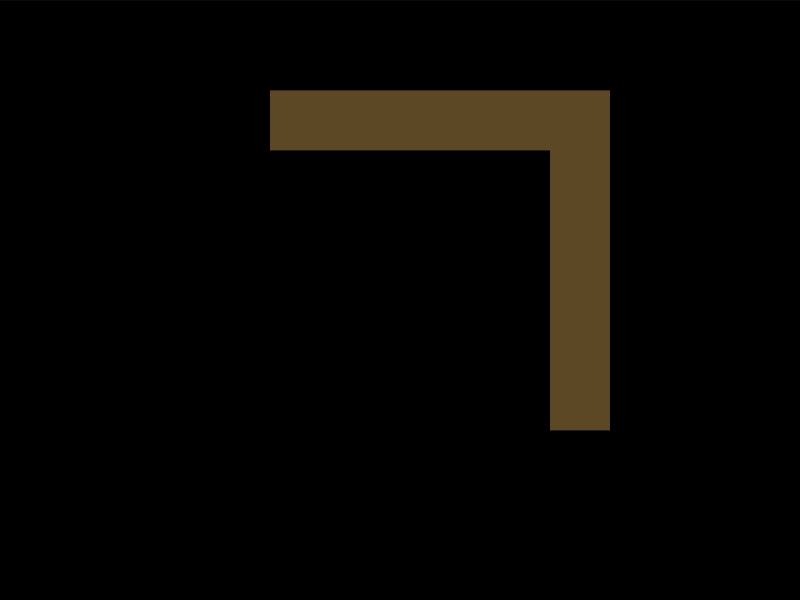
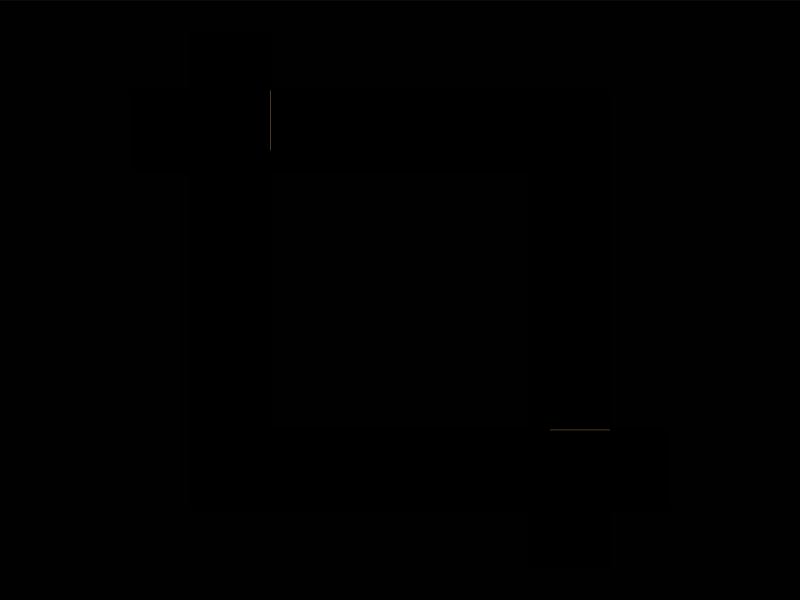
Score: 693.06, Characters: 153 (100.00% match) - CSSHub

Changed region(s): [[0.3125, 0.15, 0.7812, 0.72]]

diff --git a/Daily Targets/2026-11-06/README.md b/Daily Targets/2026-11-06/README.md
@@ -22,41 +22,26 @@ Challenge: <https://cssbattle.dev/play/jHTSQXbsHDY0OOetADF1>
 ## Code
 
 ```html
-<style>
-&{
- 
-}
-*{
-  
- border:solid #8B4646;
-  border-width: 30 30 0 0;
-  margin:45 95 15 65;
-  box-shadow:inset -11q 11q #E98F6B;
-  *{
-    margin:-60 -60 30 30;
-    scale:-1;
-   
-  }
- }
+<style>&{background:#D52A}*{border:solid#8B4646;border-width:30 30 0 0;margin:45 95 15 65;box-shadow:inset -11q 11q#E98F6B;*{margin:-60-60 30 30;scale:-1
 ```
 
 ## Prettified code
 
 ```html
 <style>
-&{
- 
+& {
+  background: #d52a;
 }
-*{
-  
- border:solid #8B4646;
+* {
+  border: solid #8b4646;
   border-width: 30 30 0 0;
-  margin:45 95 15 65;
-  box-shadow:inset -11q 11q #E98F6B;
-  *{
-    margin:-60 -60 30 30;
-    scale:-1;
-   
+  margin: 45 95 15 65;
+  box-shadow: inset -11Q 11Q #e98f6b;
+  * {
+    margin: -60 -60 30 30;
+    scale: -1;
   }
- }
+}
+
+</style>
 ```

diff --git a/README.md b/README.md
@@ -295,7 +295,7 @@ Note - I have not yet complete all the challenges.
 
 <ul>
 <li><a href="./Daily%20Targets/2026-11-02/">Nov 2, 2026</a> (129 Characters)</li>
-<li><a href="./Daily%20Targets/2026-11-06/">Nov 6, 2026</a> (185 Characters)</li>
+<li><a href="./Daily%20Targets/2026-11-06/">Nov 6, 2026</a> (153 Characters)</li>
 </ul>
 </details>
 </li>
